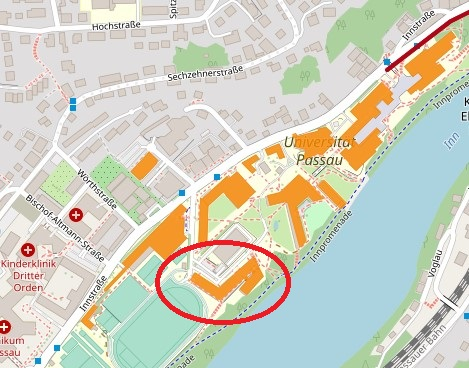
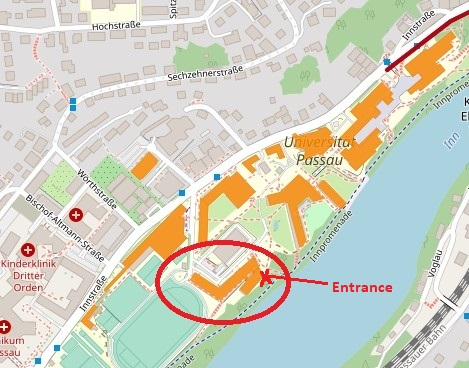
typos fixed; venue updated; sponsors and speakers added

Changed region(s): [[0.5373, 0.7174, 0.8358, 0.8071]]

diff --git a/talks.html b/talks.html
@@ -146,36 +146,32 @@
 
 <h1>Invited Talks</h1>
 
-<p><b>TBA</b></p>
+<p><img class="inlineleft" src="images/sepulveda.jpg"><strong><a href="https://de.linkedin.com/in/johanna-sep%C3%BAlveda-a9553b20" target="_blank">Johanna Sep&uacute;lveda</a>, <a href="http://www.intelligence-airbusds.com/" target="_blank">Airbus Defence and Space - Intelligence</a>, Germany</strong><p>
 
-<!--
-<p><img class="inlineleft" src="images/angsas.jpg"><strong><a href="http://sec.cs.ucl.ac.uk/people/m_angela_sasse/" target="_blank">Professor Dr. M. Angela Sasse</a>, <a href="http://www.ucl.ac.uk/" target="_blank">University College London (UCL)</a>, United Kingdom</strong><p>
+<p><i>Chief Engineer - R&T Leader for Quantum Secure Communications & Optical
+<br>Airbus Expert on Post-Quantum Secure Communications</i></p>
 
-<p><i>Head of Information Security Research
-<br>Director of the <a href="http://www.ucl.ac.uk/cybersecurity/" target="_blank">Science of Cyber Security Research Institute</a></i></p>
-
-<p>Angela Sasse read psychology in Germany and holds an M.Sc. in Occupational Psychology from Sheffield University, and a Ph.D. in Computer Science (on Users' Models) from the University of Birmingham. She worked as a Human Factors Specialist for Philips Corporate Industrial Design in 1990. She started as Lecturer in the Department of Computer Science at UCL in November 1990.</p>
+<!-- <p>Angela Sasse read psychology in Germany and holds an M.Sc. in Occupational Psychology from Sheffield University, and a Ph.D. in Computer Science (on Users' Models) from the University of Birmingham. She worked as a Human Factors Specialist for Philips Corporate Industrial Design in 1990. She started as Lecturer in the Department of Computer Science at UCL in November 1990.</p> -->
 
 <p><b>Abstract:</b></p>
 
-<p><b>Do You Care If Johnny Can Encrypt?</p></b>
-<p>In 1999, the two founding papers of usable security research were published: Whitten & Tygar's "Why Johnny Can't Encrypt" and Adams & Sasse's "Users Are Not the Enemy". Over the past 15 years, these papers have been cited nearly 1000 times each, and there has been considerable research activity - yet, there been no progress. In this talk will I explain why, and then set out what it would take to empower ordinary users to enjoy the benefits of encryption. Finally I will introduce a new initiave that is aiming to design and implement examples.</p>
+<!-- <p><b>TBA</p></b> -->
+<p>TBA</p>
 
 <br>
 <br>
 
-<p><img class="inlineleft" src="images/eleand.jpg"><strong><a href="http://homes.esat.kuleuven.be/~eandreev/" target="_blank">Dr. Elena Andreeva</a>, <a href="http://www.kuleuven.be/kuleuven/" target="_blank">Katholieke Universiteit Leuven (KU Leuven)</a>, Belgium</strong><p>
+<p><img class="inlineleft" src="images/samardjiska.jpg"><strong><a href="https://www.samardjiska.org/" target="_blank">Simona Samardjiska</a>, <a href="https://www.ru.nl/" target="_blank">Radboud University Nijmegen</a>, the Netherlands</strong><p>
 
-<p><i>Postdoctoral Researcher at the <a href="http://www.esat.kuleuven.be/cosic/" target="_blank">COSIC Research Group</a> of KU Leuven</i></p>
+<p><i>Assistant Professor at the <a href="https://www.ru.nl/ds/" target="_blank">Digital Security Group</a> of Radboud University</i></p>
 
-<p>Elena Andreeva is a postdoctoral researcher at the COSIC research group of KU Leuven, Belgium. She completed her Ph.D. at KU Leuven under the supervision of Prof. Bart Preneel in 2010. Her main research interests in the field of cryptography are provable security, hash functions, block ciphers, and authenticated encryption schemes.</p>
+<!-- <p>Elena Andreeva is a postdoctoral researcher at the COSIC research group of KU Leuven, Belgium. She completed her Ph.D. at KU Leuven under the supervision of Prof. Bart Preneel in 2010. Her main research interests in the field of cryptography are provable security, hash functions, block ciphers, and authenticated encryption schemes.</p> -->
 
 <p><b>Abstract:</b></p>
 
-<p><b>Security Aspects of Authenticated Encryption</p></b>
-<p>Traditionally, the two main cryptographic goals of confidentiality and integrity are realized separately by encryption and authentication schemes, respectively. The current trend in cryptography is to use a single algorithm for both security goals, namely an authenticated encryption (AE) scheme. The demand for secure and efficient AE schemes is reflected in the ongoing CAESAR competition for the recommendation of a portfolio of AE algorithms.</p>
-<p>In this talk we will give an overview of the existing AE design methods such as generic composition and dedicated approaches. We will cover the target AE security definitions for each these settings and further will discuss a number of security vulnerabilities and their possible solutions. Finally, we will focus on the CAESAR competition by presenting some of the candidates, their features and comparisons.</p>
--->
+<!-- <p><b>TBA</p></b> -->
+<p>TBA</p>
+
 
 <br>
 
@@ -191,7 +187,7 @@
 		<hr id="footerrule" />
 		<div id="footertext" width='100%'>
 			&copy; 2022 FIM, Uni Passau<br />
-			Last modified on 2022/08/18
+			Last modified on 2022/09/28
 		</div>
 	</td>
 </tr>

diff --git a/program.html b/program.html
@@ -215,7 +215,11 @@
 <tr><td align="right" valign="top">12:10</td><td align="center" valign="top">-</td><td align="left" valign="top">13:00</td><td> </td><td><i>-- WALKING LUNCH --</i></td></tr>
 <tr><td align="right" valign="top"> </td><td align="center" valign="top"> </td><td align="left" valign="top"> </td><td> </td><td> </td></tr>
 <tr><td align="right" valign="top"> </td><td align="center" valign="top"> </td><td align="left" valign="top"> </td><td> </td><td> </td></tr>
-<tr><td align="right" valign="top">13:00</td><td align="center" valign="top">-</td><td align="left" valign="top">14:00</td><td> </td><td><i>-- Panel Discussion --</i></td></tr>
+<tr><td align="right" valign="top">13:00</td><td align="center" valign="top">-</td><td align="left" valign="top">14:00</td><td> </td><td><i>- Panel Discussion (Chairs: Elif Bilge Kavun & Juliane Kr&auml;mer) -</i></td></tr>
+<tr><td align="right" valign="top"> </td><td align="center" valign="top"> </td><td align="left" valign="top"> </td><td> </td><td> </td></tr>
+<tr><td align="right" valign="top"> </td><td align="center" valign="top">-</td><td align="left" valign="top"> </td><td> </td><td><a href="https://de.linkedin.com/in/johanna-sep%C3%BAlveda-a9553b20">Johanna Sep&uacute;lveda</a>, <a href="http://www.intelligence-airbusds.com/" target="_blank">Airbus Defence and Space - Intelligence</a></td></tr>
+<tr><td align="right" valign="top"> </td><td align="center" valign="top">-</td><td align="left" valign="top"> </td><td> </td><td><a href="https://www.samardjiska.org/">Simona Samardjiska</a>, <a href="https://www.ru.nl/" target="_blank">Radboud University Nijmegen</a></td></tr>
+<tr><td align="right" valign="top"> </td><td align="center" valign="top">-</td><td align="left" valign="top"> </td><td> </td><td><a href="https://veelasha.org/">Veelasha Moonsamy</a>, <a href="https://www.ruhr-uni-bochum.de/en" target="_blank">Ruhr University Bochum</a> (Virtual)</td></tr>
 <tr><td align="right" valign="top"> </td><td align="center" valign="top"> </td><td align="left" valign="top"> </td><td> </td><td> </td></tr>
 <tr><td align="right" valign="top"> </td><td align="center" valign="top"> </td><td align="left" valign="top"> </td><td> </td><td> </td></tr>
 <tr><td align="right" valign="top">14:00</td><td align="center" valign="top">-</td><td align="left" valign="top">14:30</td><td> </td><td><i>-- COFFEE BREAK --</i></td></tr>

diff --git a/index.html b/index.html
@@ -150,7 +150,7 @@
 
 <p>This workshop aims to bring female researchers in the field of Cryptography and Information Security together to promote their research topics and careers as women in science and engineering. We hope to encourage a tighter cooperation between women in Cryptography & Information Security and to motivate joint papers. An additional aim is to raise awareness among participants on gender-equality, to present the outcome of relevant social studies on the topic, and to discuss possible measures for improving  the current situation. In this spirit, you are kindly invited to attend and give a presentation of your research topic to your fellow participants.</p>
 
-<p>Though the workshop is primarily aimed at female researchers, male researchers are also invited to take part. So, we encourage everyone to join the event regardless of their gender.</p>
+<p>Though the workshop primarily aims at bringing women together to discuss their research and their career opportunities, make contacts, and exchange experiences, male researchers are also welcome. So, we encourage everyone to join the event regardless of their gender.</p>
 
 <p>We welcome not only post-docs and PhD students, but also MSc and BSc students to this workshop and strongly encourage supervisors to support their students' participation. All participants are encouraged to submit abstracts and give talks during the workshop.</p>
 
@@ -183,12 +183,6 @@
 <p><strong><a href="./docs/Sponsorship_CrossFyre2022.pdf">CALL FOR SPONSORS</a></strong>
 
 <br>
-<br>
-
-<p><b>Disclaimer:</b> This workshop aims bringing women together to discuss their career opportunities, make contacts, and exchange experiences. The workshop does <b>NOT</b> intend to discriminate men. Male researchers are of course welcome to attend.
-</p>
-
-<br>
 
 <!-- end content -->
 
@@ -202,7 +196,7 @@
 		<hr id="footerrule" />
 		<div id="footertext" width='100%'>
 			&copy; 2022 FIM, Uni Passau<br />
-			Last modified on 2022/08/18
+			Last modified on 2022/09/28
 		</div>
 	</td>
 </tr>

diff --git a/sponsors.html b/sponsors.html
@@ -155,15 +155,48 @@
 <table>
 <tr>
 <td>
-<a href="https://about.facebook.com/"><img src="images/meta.svg" height="20"></a>
+<a href="https://spp-nanosecurity.uni-stuttgart.de/"><img src="images/nanosec.jpg" height="150"></a>
 <!-- &nbsp;&nbsp;&nbsp; -->
 </td>
-<!-- <td>
-<a href="https://crossfyre22.github.io/index.html"><img src="images/crossfyre_logo.jpg" height="150"></a>
+<td>
+<a href="https://about.facebook.com/"><img src="images/meta.svg" height="35"></a>
+</td>
+</tr>
+</table>
+</center>
+
+<br>
+
+<h1>Silver Sponsors</h1>
+
+<center>
+<table>
+<tr>
+<td>
+<a href="https://casa.rub.de/"><img src="images/Logo-CASA_RZ_cmyk.jpg" height="80"></a>
+&nbsp;&nbsp;&nbsp;&nbsp;
 </td>
 <td>
-<a href="https://www.uni-regensburg.de/"><img src="images/ur.png" height="200"></a>
-</td> -->
+<a href="https://www.crossing.tu-darmstadt.de/crc_1119/index.en.jsp"><img src="images/crossing.logo.rgb.72dpi.130x84.jpg" height="110"></a>
+</td>
+</tr>
+</table>
+</center>
+
+<br>
+
+<h1>Bronze Sponsors</h1>
+
+<center>
+<table>
+<tr>
+<td>
+<a href="https://www.pids.uni-passau.de/en/"><img src="images/csm_PIDS-Logo.jpg" height="110"></a>
+&nbsp;&nbsp;&nbsp;&nbsp;&nbsp;&nbsp;&nbsp;
+</td>
+<td>
+<a href="https://www.newae.com/"><img src="images/newae.png" height="160"></a>
+</td>
 </tr>
 </table>
 </center>
@@ -182,7 +215,7 @@
 		<hr id="footerrule" />
 		<div id="footertext" width='100%'>
 			&copy; 2022 FIM, Uni Passau<br />
-			Last modified on 2022/08/18
+			Last modified on 2022/09/28
 		</div>
 	</td>
 </tr>

diff --git a/contact.html b/contact.html
@@ -147,7 +147,7 @@
 <h1>Contact Us</h1>
 
 <p>
-For questions regarding the workshop, the program, the website, or other practical information, please feel free to contact the organizers using <a href="https://forms.gle/phNMXpXYwcAzNjjE9" target="_blank">this form</a>.
+For questions regarding the workshop, the program, the website, or other practical information, please feel free to contact the organizers using <a href="https://forms.gle/phNMXpXYwcAzNjjE9" target="_blank">this form</a> or <b>crossfyre22[at]sec.uni-passau.de</b>.
 </p>
 
 <br>
@@ -164,7 +164,7 @@ For questions regarding the workshop, the program, the website, or other practic
 		<hr id="footerrule" />
 		<div id="footertext" width='100%'>
 			&copy; 2022 FIM, Uni Passau<br />
-			Last modified on 2022/08/18
+			Last modified on 2022/09/28
 		</div>
 	</td>
 </tr>

diff --git a/venue.html b/venue.html
@@ -172,19 +172,7 @@
 
 <h1>Workshop Lunches</h1>
 
-<p>The workshop lunches will be at the cafeteria (Mensa) of the university.</p>
-
-<p>Below picture shows the location of the cafeteria.</p>
-
-<center>
-<table>
-<tr>
-<td>
-<img src="images/mensa.jpg" height="300">
-</td>
-</tr>
-</table>
-</center>
+<p>Walking lunches will be served also at the ITZ Building Foyer (or Terrace depending on the weather).</p>
 
 <h1>Workshop Dinner</h1>
 
@@ -216,7 +204,7 @@
 		<hr id="footerrule" />
 		<div id="footertext" width='100%'>
 			&copy; 2022 FIM, Uni Passau<br />
-			Last modified on 2022/08/18
+			Last modified on 2022/09/28
 		</div>
 	</td>
 </tr>
